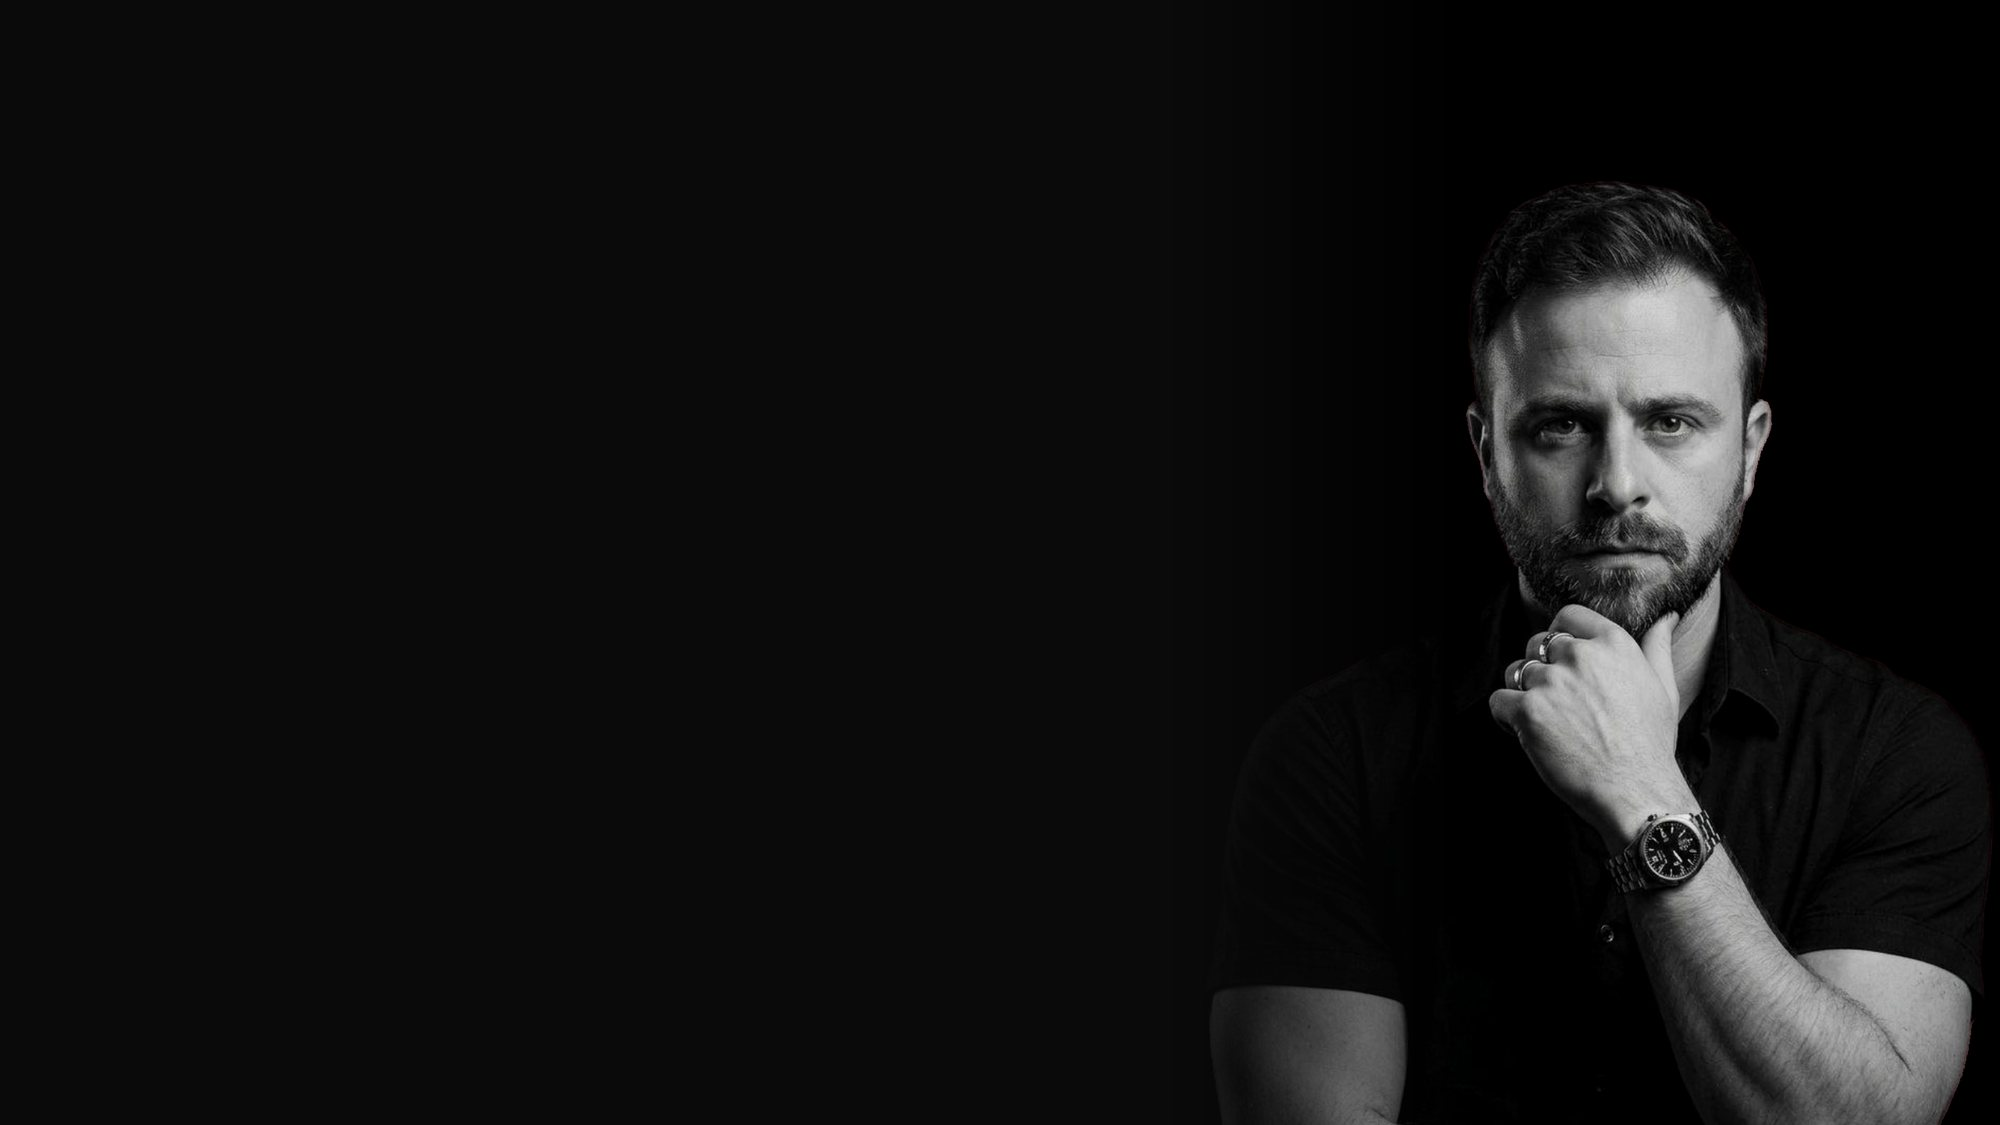
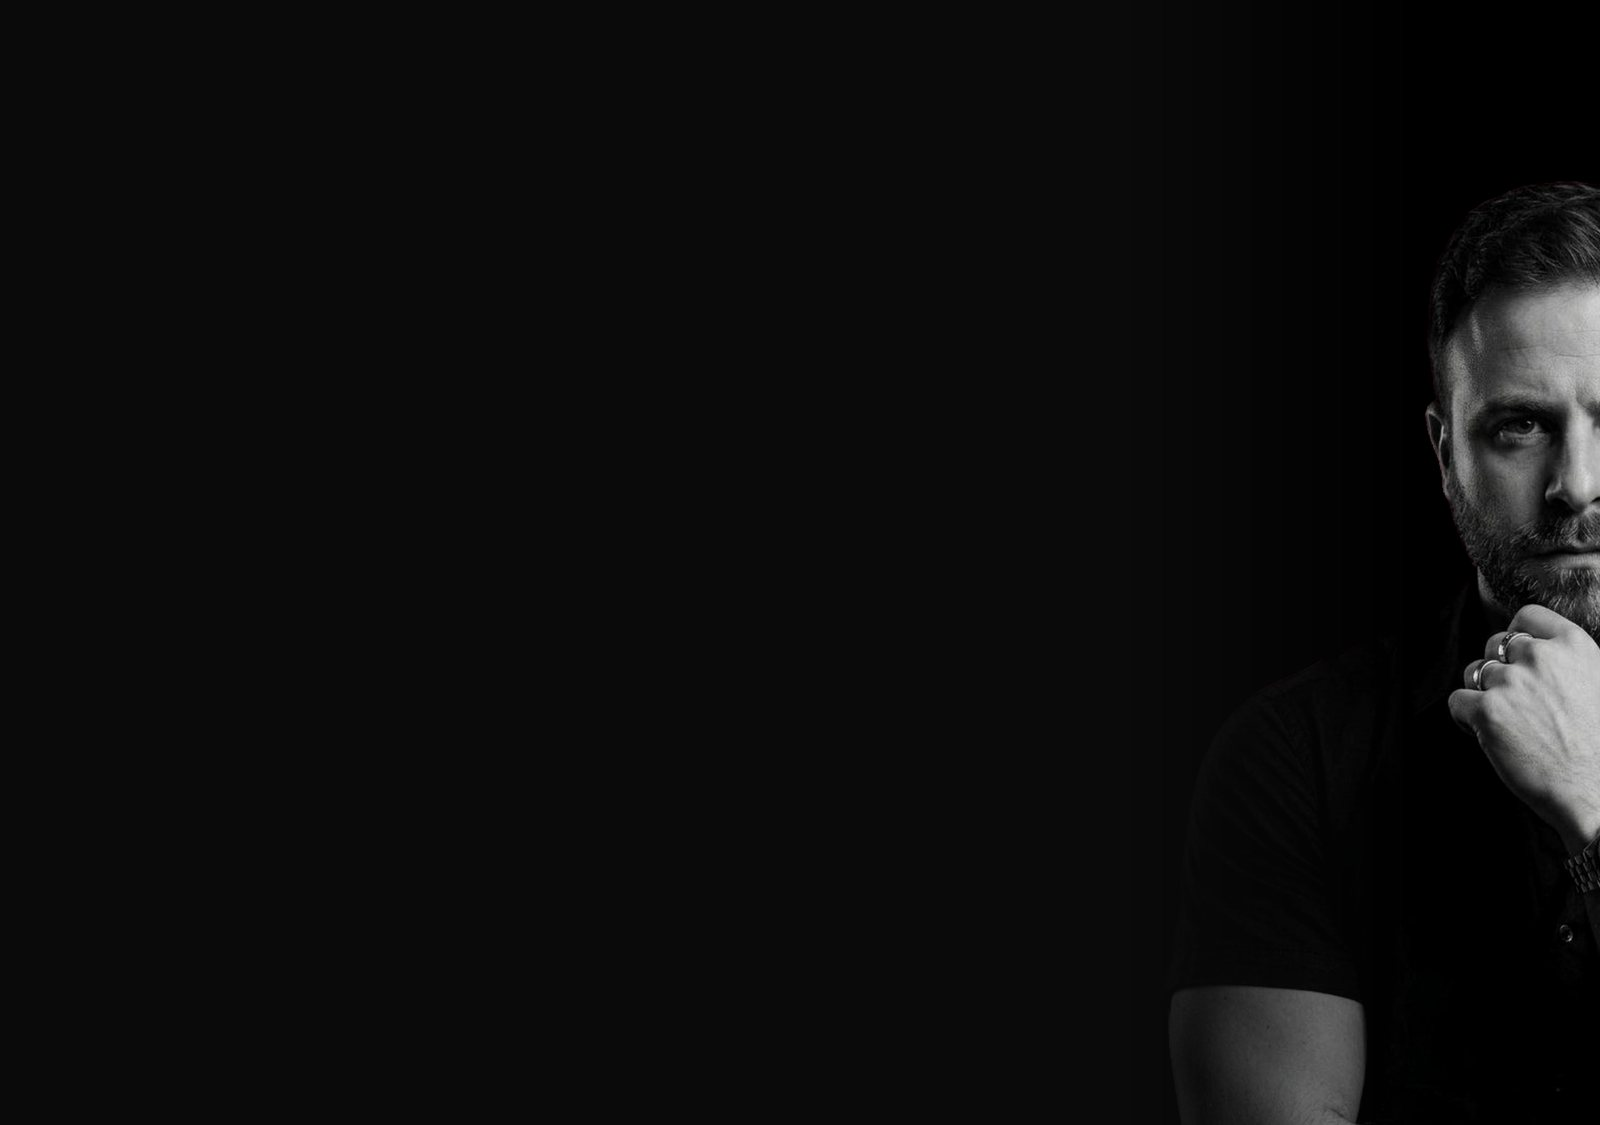
fix(work): degrau do titulo, corte das ultimas letras, e o rosto ancorado
O CORTE DAS ULTIMAS LETRAS
`letter-spacing` negativo tira espaco DEPOIS de cada letra, inclusive da
ultima: a caixa fica menor que os glifos e o `overflow: clip` da mascara
comia um pedaco do ultimo traco. Em 126px, os 0.07em viravam quase 9px
sumidos. Um `padding-right: 0.1em` na linha devolve a folga dentro da
propria caixa, sem mexer na largura da mascara nem na distancia que a
linha percorre ao sair.

O DEGRAU
"BRUNO" passa a terminar 76px a DIREITA de "GUTIERRES" — era o espaco
que o Israel marcou de branco. Feito com `padding-right` na segunda
linha: `max-content` soma o padding do filho mais largo, entao a
mascara cresce junto e a primeira linha, sem esse recuo, alcanca a nova
borda. Sem posicao absoluta e sem largura fixa, que quebrariam com um
nome de obra mais longo.

O PARAGRAFO E O ROTULO SE SOBREPUNHAM
Com os rotulos em posicao absoluta nas margens, o paragrafo comecava em
16.5% fixo — e "ACONSELHAMENTO · PROPERTY CARE" tem 268px, ou seja,
passava por baixo dele. Agora e uma grade de tres colunas: o rotulo tem
coluna propria limitada a 20% e quebra dentro dela em vez de invadir a
do lado. Medido sem o vao, os dois encostavam em x=301; com o vao,
separam em qualquer largura e com qualquer setor escrito ali.

A COREOGRAFIA QUE O ISRAEL DESENHOU
Os dois blocos deixam de atrasar juntos e passam a se AFASTAR: o de
cima SOBE, o paragrafo DESCE. Le melhor do que o atraso puro — com os
dois indo para baixo, quem rola rapido ve os dois perseguindo o rodape;
[…]

Changed region(s): [[0.625, 0.1556, 1.0, 1.0]]

diff --git a/src/index.css b/src/index.css
@@ -5129,12 +5129,24 @@ html { scrollbar-gutter: stable; }
   isolation: isolate;
 }
 
-/* 118% de altura para a deriva ter para onde ir sem descobrir a borda */
+/* ── o enquadramento que nao muda de aparelho para aparelho ──
+   A imagem termina EXATAMENTE no eixo vertical do rosto (medido: 57.5%
+   do retrato original, e o arquivo foi cortado ali). Com `right`, esse
+   eixo cai sempre na borda direita do container — em 375px ou em
+   2560px, cortando por largura ou por altura, o que sobra na tela e
+   sempre a metade esquerda do rosto.
+
+   `center`, como estava, deixava o enquadramento a merce da proporcao:
+   cada largura de tela mostrava um pedaco diferente da pessoa.
+
+   O 38% vertical e a altura do rosto no arquivo. Preso assim, a cabeca
+   fica no mesmo ponto da tela em retrato e em paisagem. */
 .prj__fundo {
   position: absolute;
-  left: 0; right: 0; top: -9%; height: 118%;
+  left: 0; right: 0; top: -8%; height: 116%;
   background-size: cover;
-  background-position: center;
+  background-position: right 38%;
+  background-repeat: no-repeat;
   z-index: -2;
 }
 
@@ -5206,6 +5218,15 @@ html { scrollbar-gutter: stable; }
   display: block;
   width: 100%;          /* preenche a janela: xPercent 100 = sair inteiro */
   will-change: transform;
+  /* ── a folga que impedia o corte ──
+     `letter-spacing` negativo tira espaco DEPOIS de cada letra,
+     inclusive da ultima: a caixa fica menor que os glifos e o
+     `overflow: clip` comia um pedaco do ultimo traco. Em 126px, os
+     0.07em de tracking viravam quase 9px sumidos.
+
+     O padding devolve essa folga dentro da propria caixa, sem mexer na
+     largura da mascara nem na distancia que a linha percorre ao sair. */
+  padding-right: 0.1em;
 }
 /* ── por que as duas linhas alinham à DIREITA ──
    Medido na referência: "UNSTABLE" vai de 210 a 983 e "SEQUENCE" de
@@ -5219,7 +5240,13 @@ html { scrollbar-gutter: stable; }
    Alinhar à direita entrega a mesma escada sem pedir largura extra. */
 .prj__titulo { text-align: right; }
 .prj__ln--a { color: var(--cal); }
-.prj__ln--b { color: var(--solda); }
+/* ── o degrau ──
+   A segunda linha recua da borda, e a mascara cresce junto porque
+   `max-content` soma o padding do filho mais largo. A primeira linha,
+   sem esse recuo, passa a terminar 0.6em a DIREITA da segunda — e o
+   degrau aparece sem precisar de posicao absoluta nem de largura fixa,
+   que quebrariam com um nome de obra mais longo. */
+.prj__ln--b { color: var(--solda); padding-right: 0.7em; }
 
 /* ── por que posição absoluta para os rótulos ──
    Medido na referência: "Inspiration" encosta na margem esquerda da
@@ -5230,30 +5257,41 @@ html { scrollbar-gutter: stable; }
    Numa grade de três colunas o parágrafo herdaria a largura dos
    rótulos como ponto de partida, e a faixa mudaria de lugar a cada
    palavra nova num deles. */
+/* ── por que uma grade, e nao posicao absoluta ──
+   Com os rotulos absolutos nas margens, o paragrafo comecava em 16.5%
+   fixo — e "ACONSELHAMENTO · PROPERTY CARE" tem 268px, ou seja, passava
+   por baixo dele. Os dois textos se sobrepunham.
+
+   Na grade o rotulo tem coluna PROPRIA, limitada a 20%: ele quebra em
+   duas linhas dentro dela em vez de invadir a do lado, e o paragrafo
+   comeca sempre depois — com qualquer setor escrito ali. */
 .prj__heroi-base {
-  position: relative;
+  display: grid;
+  grid-template-columns: minmax(0, 20%) 49.5% 1fr;
+  /* Medido sem o vão: o rótulo terminava em 301 e o parágrafo começava
+     em 301. Não se sobrepunham, mas encostavam — e bastaria uma palavra
+     a mais no setor para os dois virarem um bloco só. */
+  column-gap: clamp(1rem, 2vw, 2rem);
+  align-items: start;
   margin-top: clamp(2rem, 5vw, 5rem);
-  min-height: 2rem;
 }
 
 .prj__lateral {
-  position: absolute;
-  top: 0;
   font-family: var(--font-mono);
   font-size: 0.75rem;
+  line-height: 1.5;
   letter-spacing: 0.14em;
   text-transform: uppercase;
   color: var(--cal);
-  white-space: nowrap;
+  will-change: transform;
 }
-.prj__lateral:not(.prj__lateral--dir) { left: 0; }
-.prj__lateral--dir { right: 0; }
+.prj__lateral--dir { text-align: right; }
 
 .prj__heroi-texto {
-  /* x 16.5% e largura 49.5% da caixa de conteúdo — a faixa medida na
-     referência (242 e 653 numa página de 1368 com 24 de margem). */
-  margin: 0 0 0 16.5%;
-  width: 49.5%;
+  /* Largura da referência (49.5% da caixa de conteúdo); a posição vem
+     da coluna da grade, não de uma margem fixa. */
+  margin: 0;
+  width: 100%;
   /* O recuo da primeira linha vem da referência. É detalhe de página
      impressa: marca o começo do parágrafo sem precisar de espaço em
      branco acima dele. */
@@ -5600,19 +5638,24 @@ html { scrollbar-gutter: stable; }
      de 13vw estouraria a tela, e o recorte é o que segura a animação
      dentro do quadro. O recuo da segunda linha cai junto — em 375px
      ele comeria um terço da palavra. */
-  /* Alinhamento à esquerda: a escada da direita só existe quando sobra
-     largura. Em 375px as duas linhas ocupam a tela toda e o degrau
-     vira um desalinho sem motivo. */
+  /* Só o recuo da esquerda cai — a máscara continua `max-content` e o
+     alinhamento à direita continua valendo.
+
+     Medido: em 375px o título vai a 48.75px e "GUTIERRES" ocupa 221px
+     numa caixa de 335. Cabe folgado, então forçar largura total e
+     alinhamento à esquerda (como eu tinha feito) só apagava o degrau
+     onde ele ainda funcionava — inclusive no tablet, onde sobra
+     bastante largura. */
   .prj__titulo {
     font-size: clamp(2rem, 13vw, 3.6rem);
-    margin-left: 0; width: 100%; max-width: 100%;
-    text-align: left;
+    margin-left: 0;
+    max-width: 100%;
   }
-  /* Os rótulos voltam ao fluxo: empilhados, `position: absolute` os
-     sobreporia ao parágrafo. */
-  .prj__heroi-base { position: static; margin-top: 2rem; display: flex; flex-direction: column; gap: 1rem; }
-  .prj__lateral { position: static; white-space: normal; }
-  .prj__heroi-texto { width: 100%; margin-left: 0; text-indent: 0; }
+  /* Uma coluna: em 375px, 20% de rótulo sobram 75px para escrever
+     "ACONSELHAMENTO · PROPERTY CARE". */
+  .prj__heroi-base { grid-template-columns: 1fr; margin-top: 2rem; gap: 1rem; }
+  .prj__lateral--dir { text-align: left; }
+  .prj__heroi-texto { width: 100%; text-indent: 0; }
   .prj__ano { font-size: clamp(2.6rem, 16vw, 5rem); right: 20px; }
 
   .prj__ficha, .prj__intro, .prj__cap, .prj__result, .prj__mais { padding-left: 20px; padding-right: 20px; }

diff --git a/src/pages/Projeto.jsx b/src/pages/Projeto.jsx
@@ -67,7 +67,9 @@ export default function Projeto() {
     const linhas = gsap.utils.toArray(r.querySelectorAll('.prj__ln'));
     const saidas = gsap.utils.toArray(r.querySelectorAll('.prj__saida'));
     const topo = r.querySelector('.prj__heroi-topo');
-    const base = r.querySelector('.prj__heroi-base');
+    const texto = r.querySelector('.prj__heroi-texto');
+    const latEsq = r.querySelector('.prj__lateral:not(.prj__lateral--dir)');
+    const latDir = r.querySelector('.prj__lateral--dir');
     const fundo = r.querySelector('.prj__fundo');
 
     /* ── o caminho estático de verdade ──
@@ -76,6 +78,7 @@ export default function Projeto() {
        pediu menos movimento — que é o oposto de acessibilidade. */
     if (parado) {
       gsap.set([...linhas, ...saidas], { xPercent: 0 });
+      gsap.set(r.querySelectorAll('.prj__lateral'), { xPercent: 0, autoAlpha: 1 });
     } else if (heroi && linhas.length) {
       /* ── a SAÍDA é criada ANTES da entrada ──
          Um `fromTo` sob ScrollTrigger grava o estado inicial no ato da
@@ -124,14 +127,37 @@ export default function Projeto() {
 
       cancelarEntrada = aposCortina(() => entrada.play());
 
-      /* O atraso dos textos menores. O de baixo atrasa o DOBRO do de
-         cima: é a diferença entre os dois ritmos que faz o par se
-         afastar na descida, não o deslocamento em si. */
-      [[topo, 0.1], [base, 0.2]].forEach(([el, taxa]) => {
+      /* ── os dois blocos se AFASTAM ──
+         A referência atrasa os dois para baixo em ritmos diferentes, o
+         que os separa. Aqui a separação é explícita: o bloco de cima
+         SOBE e o parágrafo DESCE, cada um saindo pela sua borda.
+
+         Ler melhor do que o atraso puro: com os dois indo para baixo,
+         quem rola rápido vê os dois perseguindo o rodapé. Em direções
+         opostas, o herói se abre no meio e o olho entende que aquela
+         tela acabou. */
+      const faixa = { trigger: heroi, start: 'top top', end: 'bottom top', scrub: true };
+      [[topo, -0.16], [texto, 0.18]].forEach(([el, taxa]) => {
         if (!el) return;
         gsap.fromTo(el, { y: 0 }, {
           y: () => heroi.offsetHeight * taxa, ease: 'none',
-          scrollTrigger: { trigger: heroi, start: 'top top', end: 'bottom top', scrub: true },
+          scrollTrigger: faixa,
+        });
+      });
+
+      /* ── os rótulos laterais saem PELO LADO ──
+         Mesma gramática do título: cada um se recolhe para a borda mais
+         próxima. São os dois textos que já nascem colados nas margens,
+         então sair pelo lado é o caminho mais curto — e o que repete o
+         gesto que a página inteira já faz. */
+      [[latEsq, -1], [latDir, 1]].forEach(([el, lado]) => {
+        if (!el) return;
+        gsap.fromTo(el, { xPercent: 0, autoAlpha: 1 }, {
+          xPercent: lado * 130, autoAlpha: 0, ease: 'power2.in',
+          scrollTrigger: {
+            trigger: heroi, start: 'top top',
+            end: () => '+=' + heroi.offsetHeight * 0.6, scrub: 0.6,
+          },
         });
       });
 
